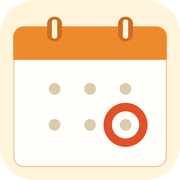
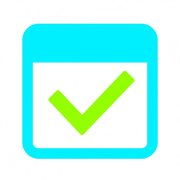
kurashi: ファビコンをE案(カレンダーの枠にライムのチェック)に差し替え、16px・48pxのPNGのlinkを追加

diff --git a/sites/kurashi/hooks.py b/sites/kurashi/hooks.py
@@ -24,6 +24,8 @@ BUTTON = "カレンダーに登録"
 BUNDLE = "まとめて登録"
 NOTE = "通知は前日の午前9時です。"
 PRINT_BUTTON = "印刷"
+ICON16 = '<link rel="icon" type="image/png" sizes="16x16" href="/assets/favicon-16.png">'
+ICON48 = '<link rel="icon" type="image/png" sizes="48x48" href="/assets/favicon-48.png">'
 PRINT_PAGES = ("/life/birth/", "/life/kaigo/", "/life/kekkon/", "/life/shibo/", "/life/taishoku/", "/moving/", "/moving/tenshutsu/", "/moving/menkyo-sha/",
                "/month/11/", "/month/12/", "/month/1/", "/month/2/", "/month/3/")
 
@@ -234,6 +236,10 @@ def post(pages, content, cfg, spec, site_dir):
             h = h.replace("</body>", tag + "</body>", 1)
         pages[rel] = h
     pages["assets/tools.js"] = tools
+    icon32 = '<link rel="icon" type="image/png" sizes="32x32" href="/assets/favicon-32.png">'
+    for rel, h in list(pages.items()):         # the 16px and 48px icons beside the 32px one the shared head already has
+        if isinstance(h, str) and rel.endswith(".html") and icon32 in h and "favicon-16.png" not in h:
+            pages[rel] = h.replace(icon32, ICON16 + "\n" + icon32 + "\n" + ICON48, 1)
     pages.update(files)
     for s in sorted(set(STALE)):
         print(f"  warning kurashi: a day count that has passed ({s}): the page needs this season's review")
